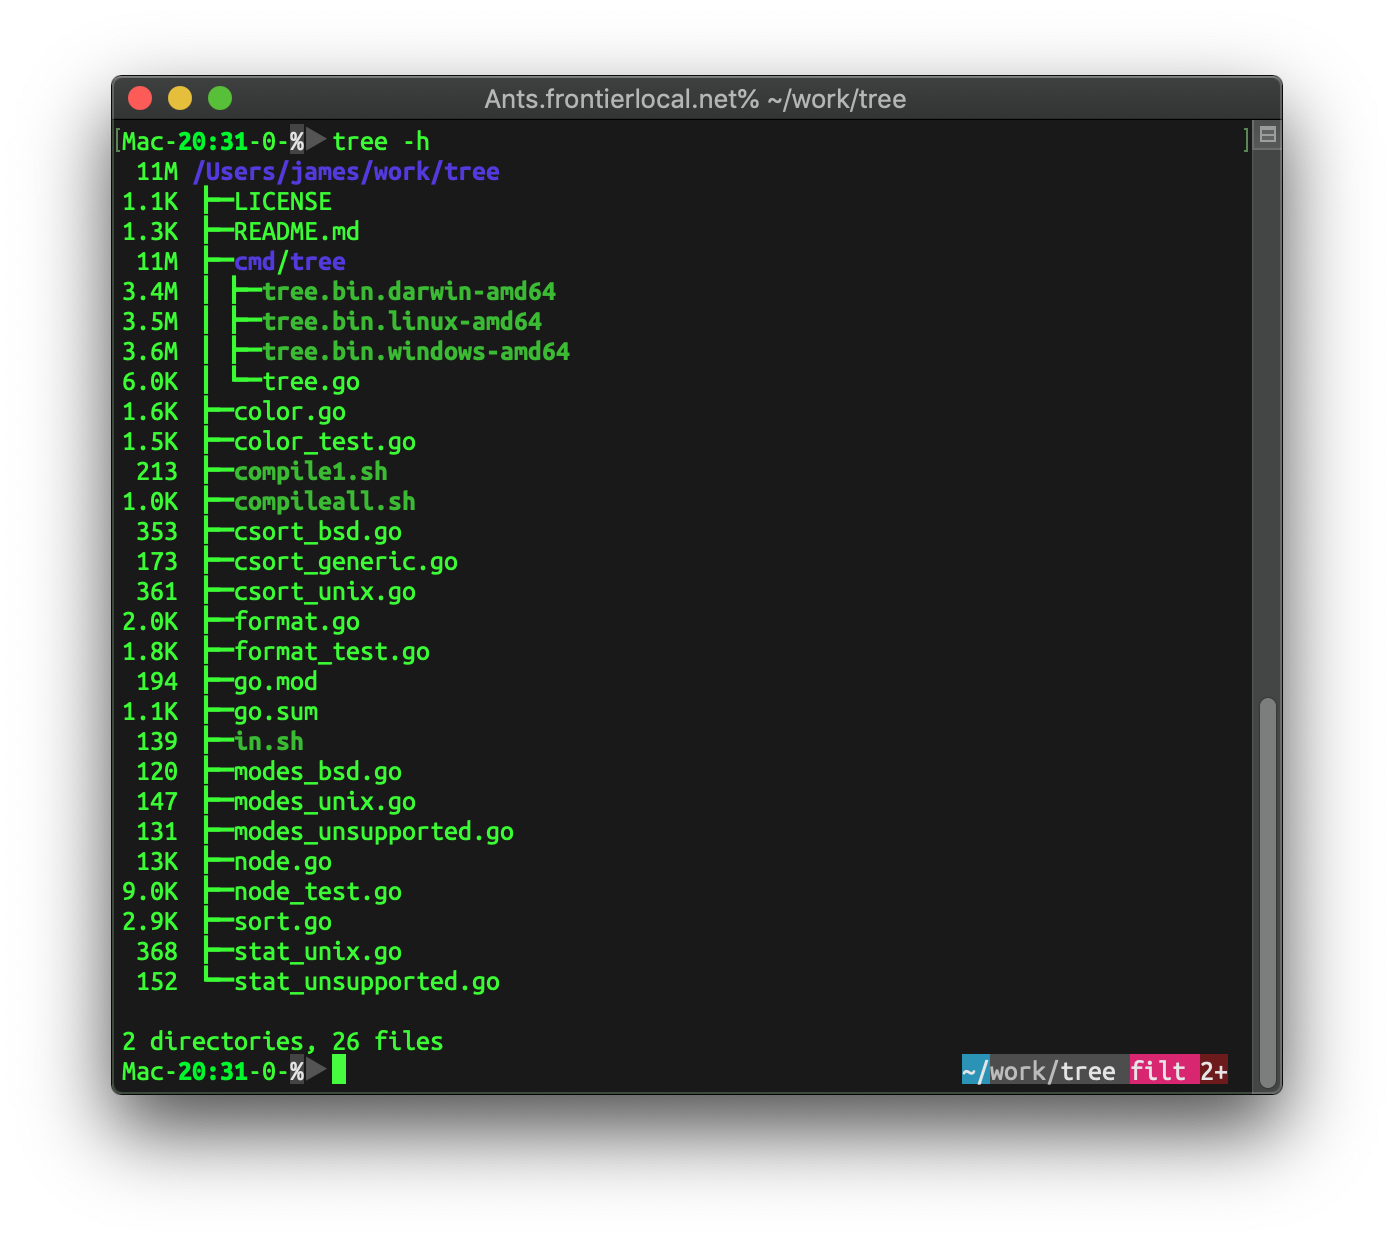
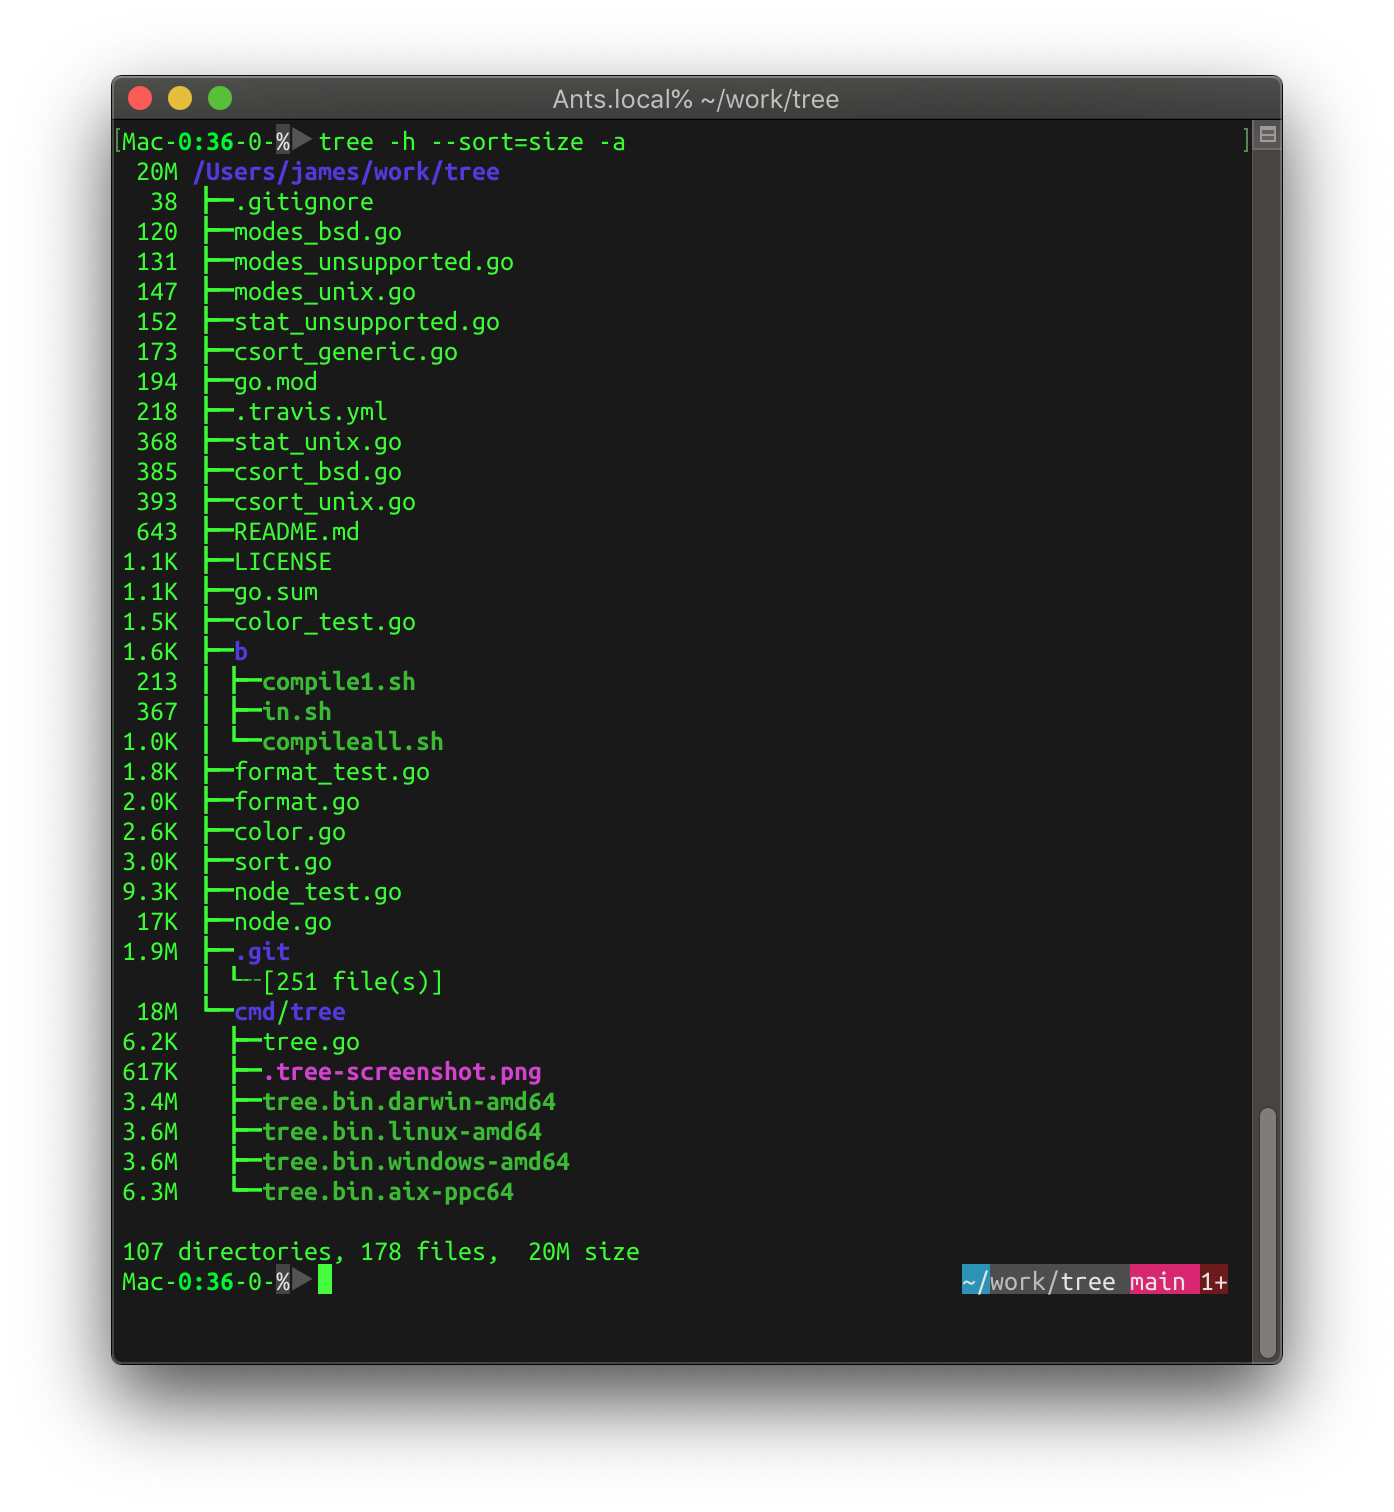
Update screenshot.

Changed region(s): [[0.0617, 0.0306, 0.9254, 0.9485], [0.8945, 0.5507, 0.9254, 0.7343]]

diff --git a/README.md b/README.md
@@ -4,7 +4,7 @@ tree [![License][license-image]][license-url]
 
 Based off of github.com/a8m/tree, but with a bunch of UI changes.
 
-<img src="https://raw.githubusercontent.com/james-antill/tree/filt/cmd/tree/.tree-screenshot.png" alt="tree command output">
+<img src="https://raw.githubusercontent.com/james-antill/tree/main/cmd/tree/.tree-screenshot.png" alt="tree command output">
 
 #### Installation:
 ```sh
